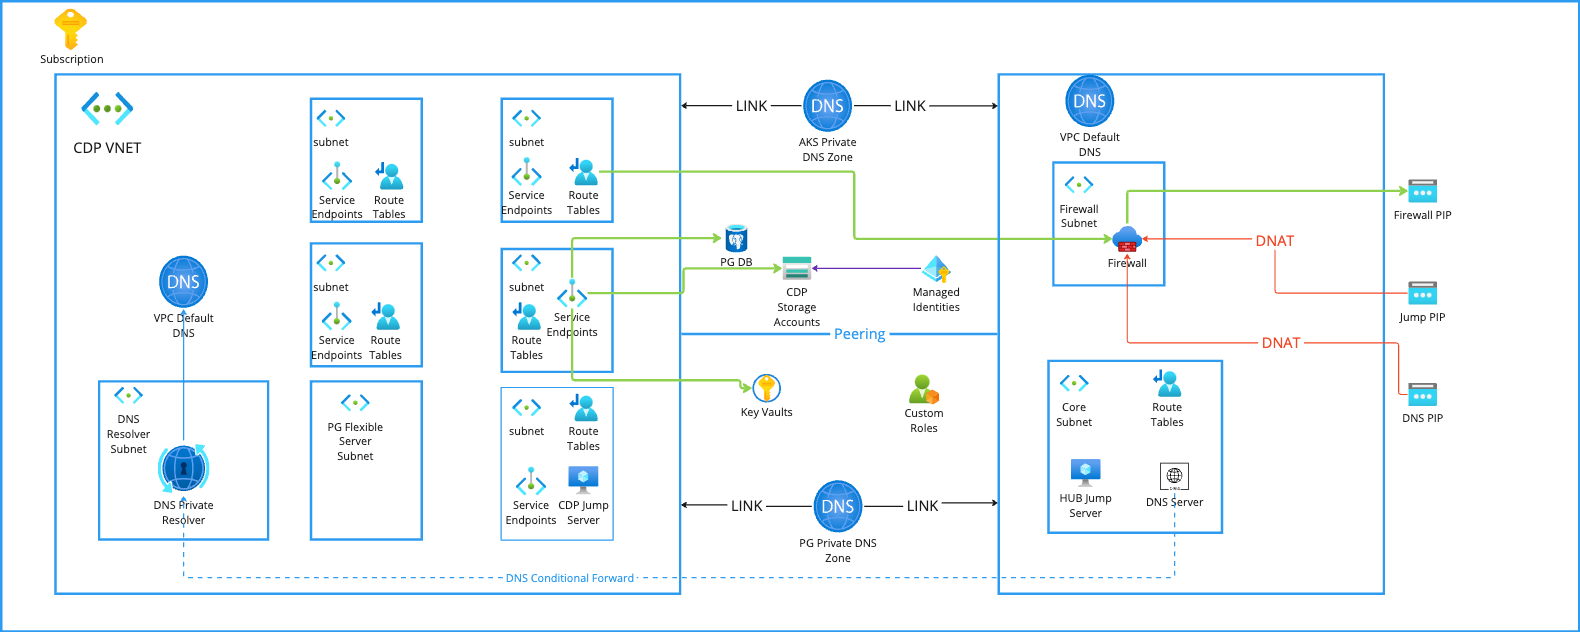
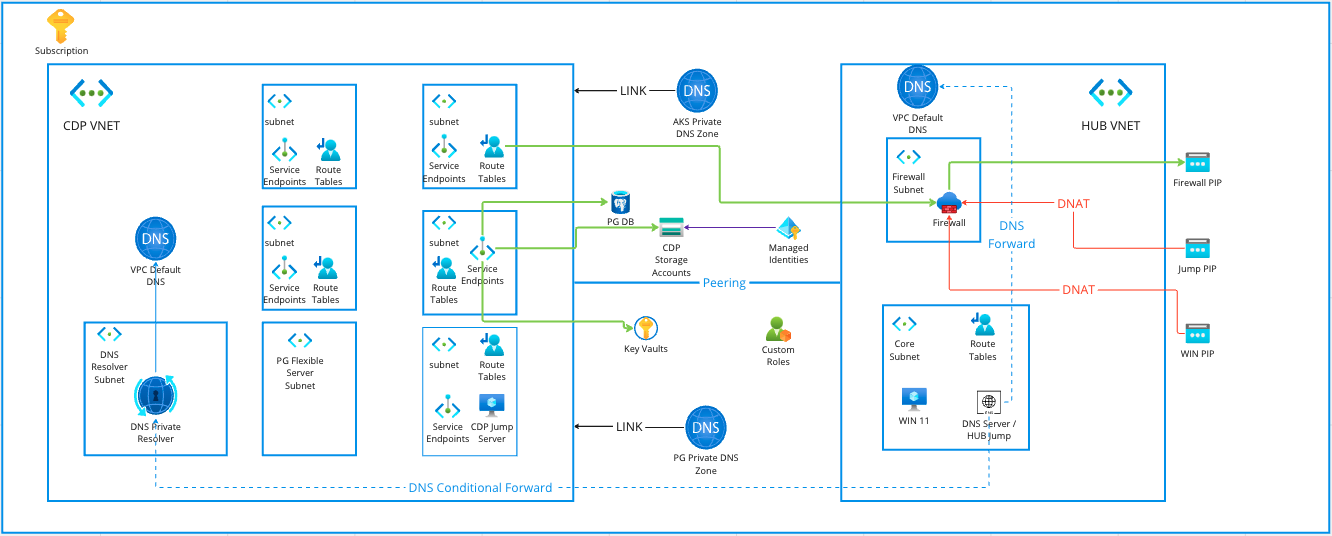
Azure DNS server adjustment

diff --git a/README.MD b/README.MD
@@ -36,19 +36,21 @@ The template in this repo is `NOT` to create CDP installation. It's to create a 
 - HUB VNET to hold the jump server, DNS server, Firewall.
   - Firewall subnet
   - core subnet
-    - DNS server
-    - jump server
+    - A Windows 11 VM
+    - A Ubuntu Linux server as a custom DNS server and also a jump VM.
 - CDP VNET
-  - a few subnets with different CIDR range for testing
-  - a Linux jump server
-- Configure to use the DNS server public IP to rdp into the DNS server
-  - Create DNS services
-  - Create conditional forward to `dns_resolver_inbound_ip` for privatelink domains.
-    - `privatelink.mysql.database.azure.com`
+  - A few subnets with different CIDR range for testing. All subnets have service endpoint enabled for storage, SQL, and KeyVault.
+  - A DNS resolver subnet
+  - A Postgres DB Flexible server delegated subnet
+  - A Linux jump server
+- DNS server forward setting.
+  - DNS server is automatically configured to forward DNS request to Azure Default DNS
+  - Conditional forward is configured to `dns_resolver_inbound_ip` for privatelink domains.
+    - `mysql.database.azure.com`
     - `privatelink.<region>.azmk8s.io`
-    - `<region>.postgres.database.azure.com`: if postgres flexible servier is used.
+    - `<region>.postgres.database.azure.com`
+  - Below conditional forward settings are not configured by default.
     - `privatelink.blob.core.windows.net`: if service endpoint is not allowed
     - `privatelink.file.core.windows.net`: if service endpoint is not allowed
-    - `privatelink.postgres.database.azure.com`: if service endpoint is not allowed
 
 ![azure architecture](images/azure.png)

diff --git a/CHANGELOG.md b/CHANGELOG.md
@@ -1,4 +1,10 @@
 # Change log
+
+## v0.3.8 Azure template
+- Use hub-jump Linux server as DNS server.
+  - Automatically configure the DNS server on the Linux VM.
+- Create a Win11 VM as client.
+- Remove the Windows Server as DNS server.
 ## v0.3.7
 ### AWS template
 - Remove variables for subnet CIDR. Calculate the subnets CIDR from VPC CIDR.
